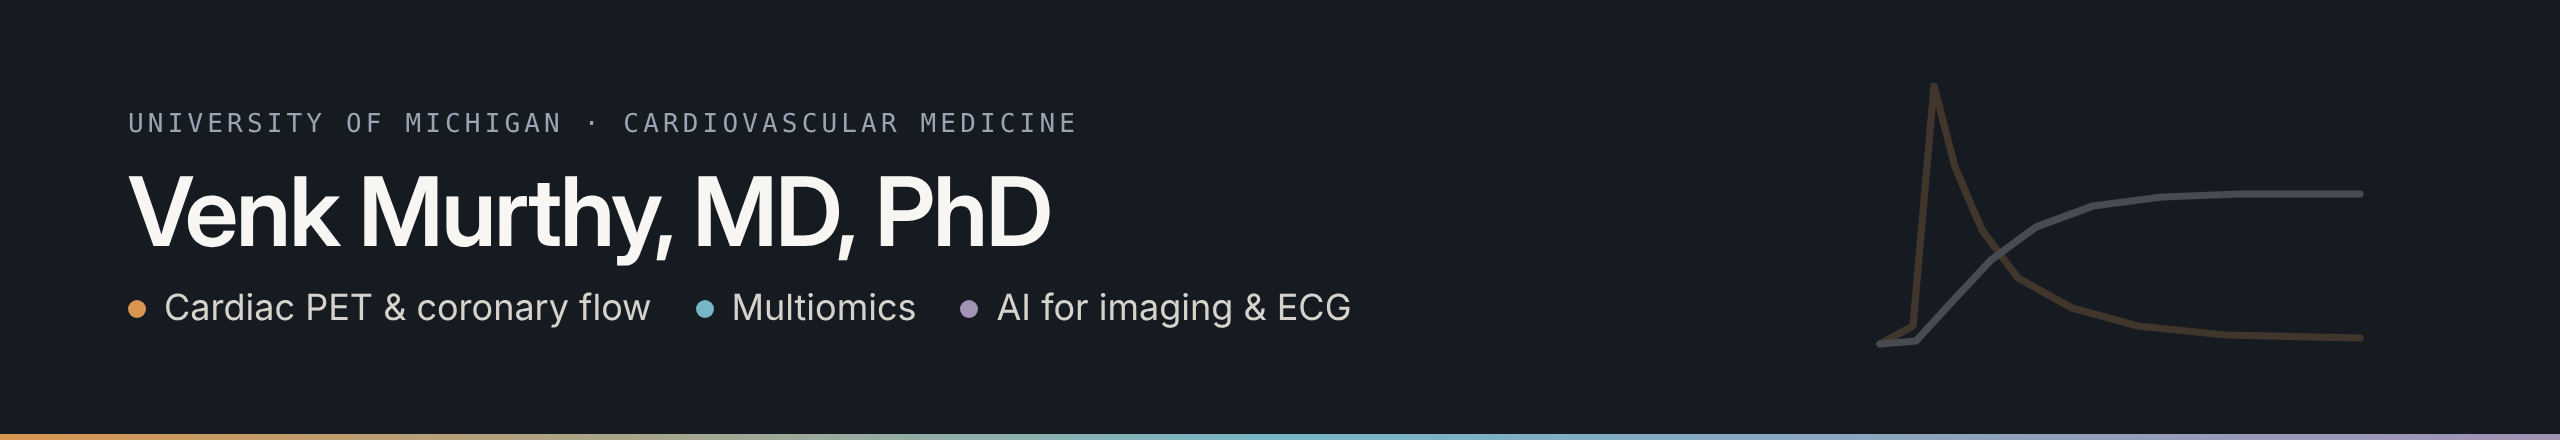
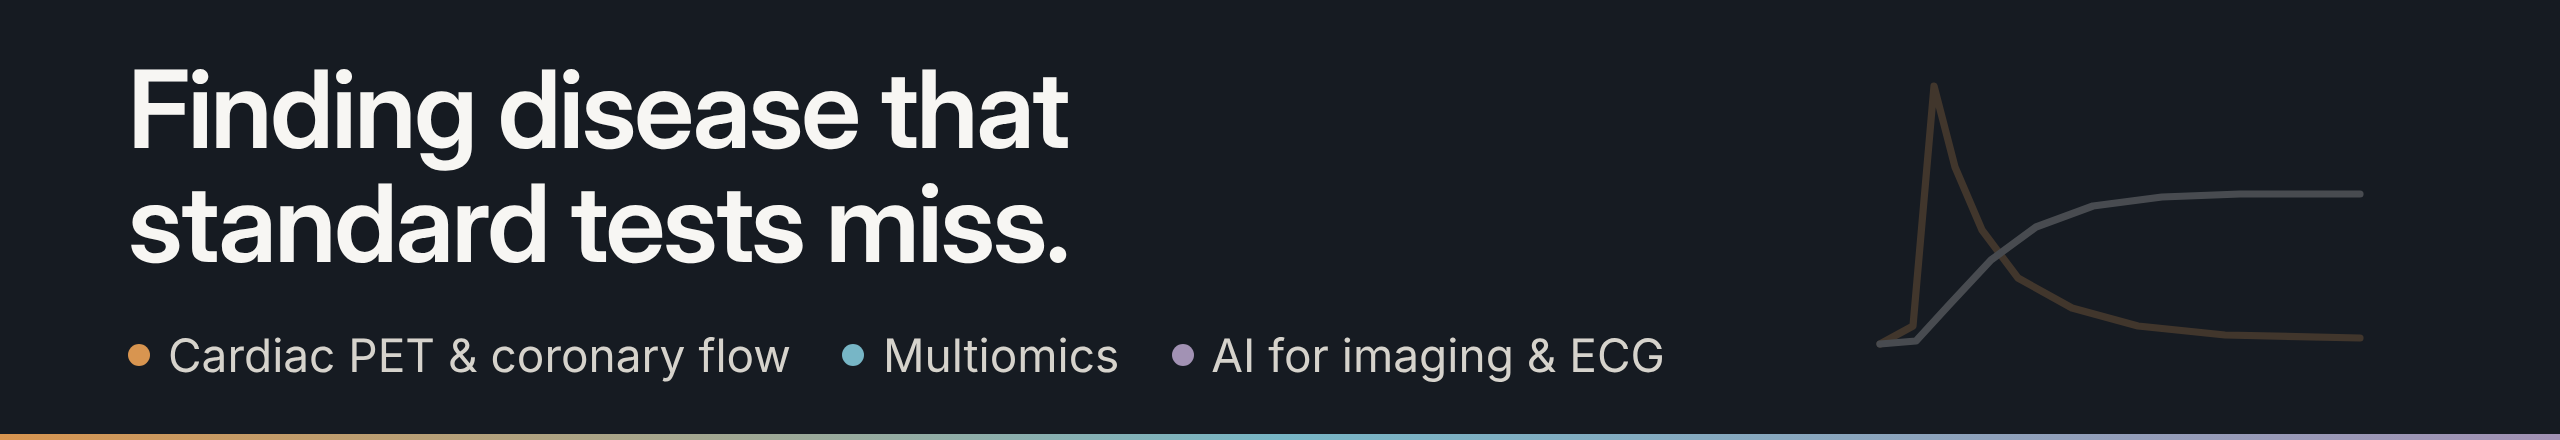
Profile header: lead with the research message instead of repeating the name
Claude-Session: https://claude.ai/code/session_01WxLrqMXbgcxci3Z6gtYx2V

Changed region(s): [[0.0312, 0.1477, 0.4375, 0.6205], [0.0312, 0.7682, 0.6562, 0.8568], [0.0312, 0.65, 0.5312, 0.7386]]

diff --git a/README.md b/README.md
@@ -1,4 +1,4 @@
-<img src="header.png" alt="Venk Murthy, MD, PhD — University of Michigan, Cardiovascular Medicine" width="100%">
+<img src="header.png" alt="Finding disease that standard tests miss. Cardiac PET &amp; coronary flow · Multiomics · AI for imaging &amp; ECG" width="100%">
 
 Cardiologist and physician-scientist at the University of Michigan. My lab builds quantitative
 and AI methods that pull diagnostic information out of cardiac imaging, the ECG, and multiomic
